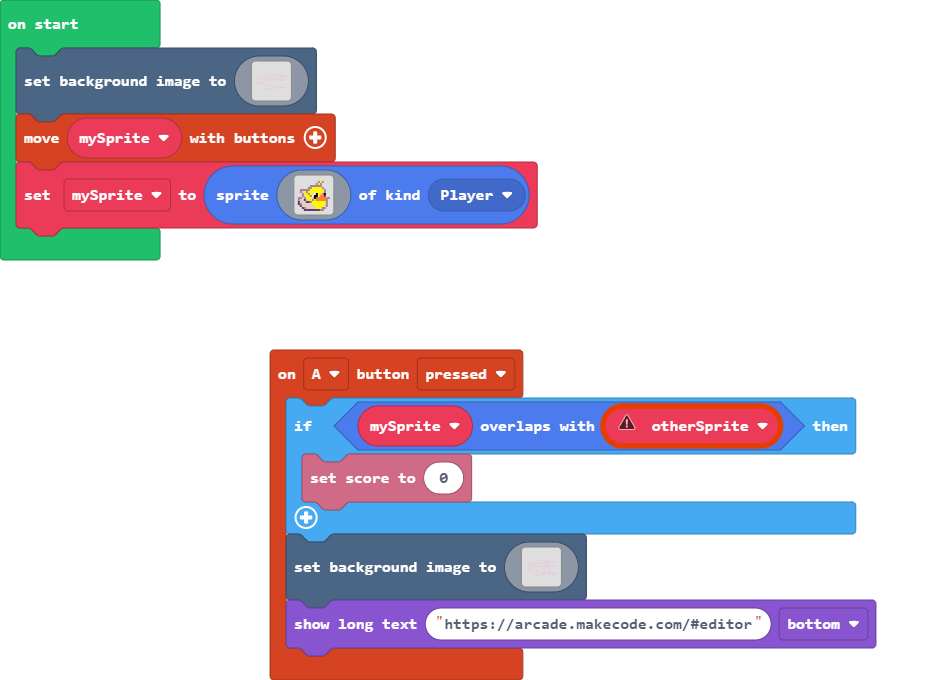
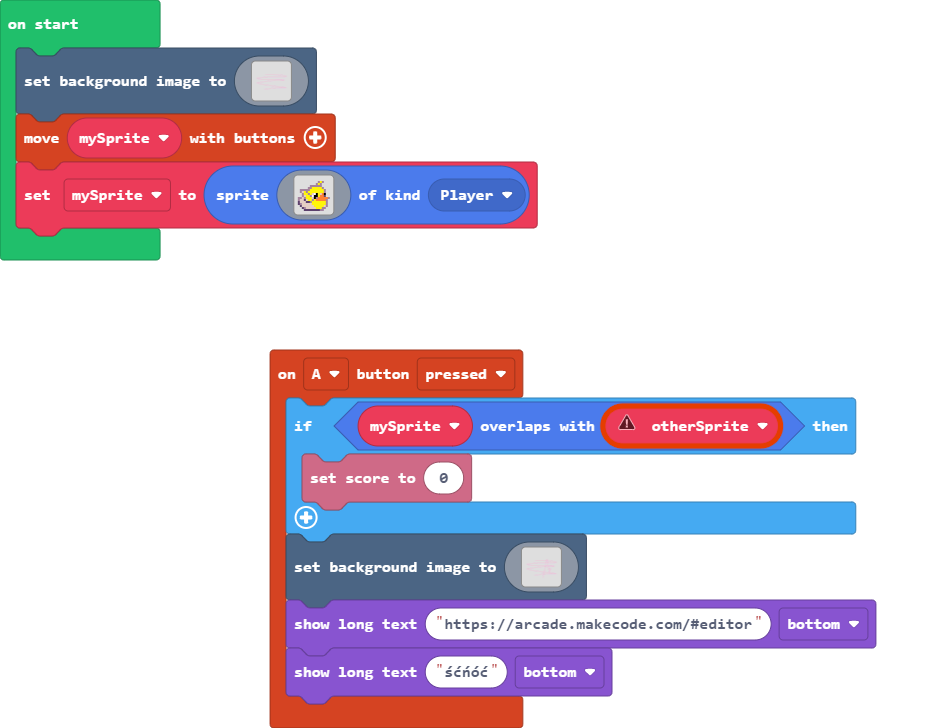
Update main.blocks, main.ts

Changed region(s): [[0.2812, 0.4632, 0.9688, 0.9882], [0.0, 0.0309, 0.5938, 0.4015]]

diff --git a/main.ts b/main.ts
@@ -126,6 +126,7 @@ controller.A.onEvent(ControllerButtonEvent.Pressed, function () {
         ................................................................................................................................................................
         `)
     game.showLongText("https://arcade.makecode.com/#editor", DialogLayout.Bottom)
+    game.showLongText("śćńóć", DialogLayout.Bottom)
 })
 let mySprite: Sprite = null
 scene.setBackgroundImage(img`
